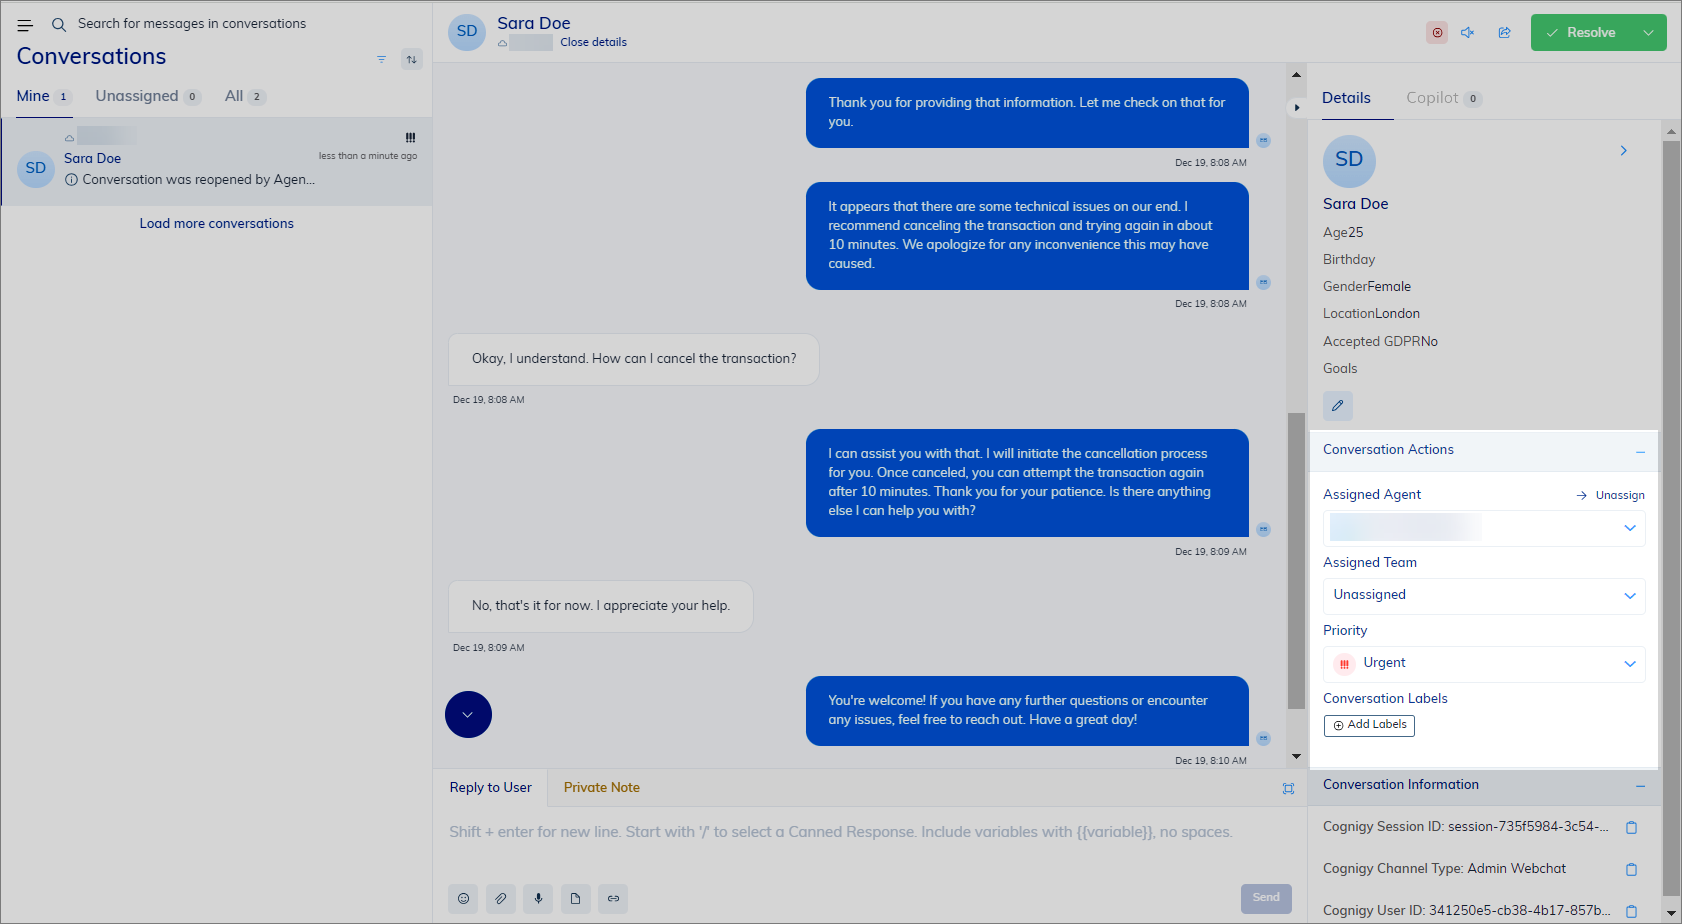
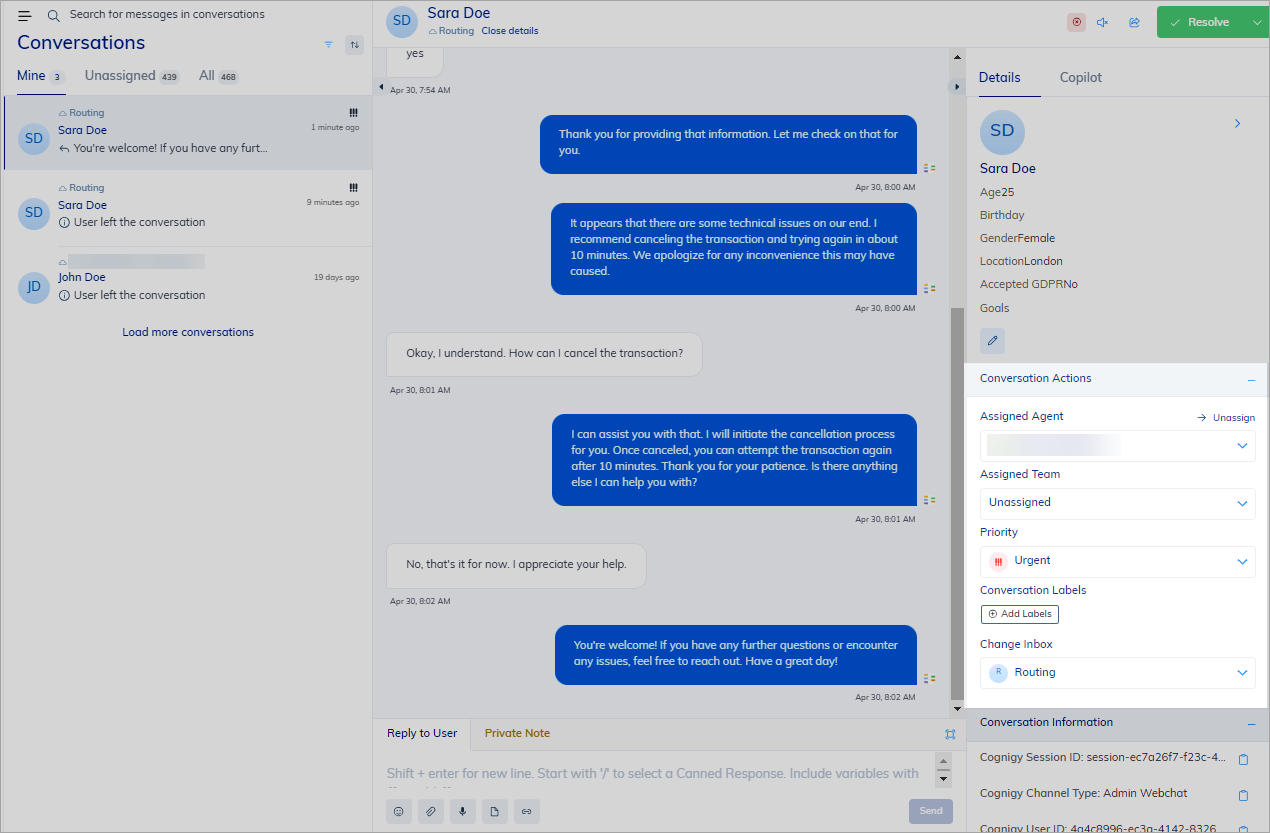
Change Inboxes

diff --git a/docs/en/docs/live-agent/conversation/assign-conversations.md b/docs/en/docs/live-agent/conversation/assign-conversations.md
@@ -5,13 +5,13 @@ description: "Within a Live Agent conversation, you can assign agents, teams, pr
 hidden: false
 ---
 
-# Assign Conversations
+# Conversation Assignment
 
-Within a conversation, you can assign agents, teams, priority, and labels.  
+Within Live Agent, you can assign agents, teams, priority, labels, and change inboxes.  
 
 <figure>
 <img class="image-center" src="{{config.site_url}}live-agent/conversation/images/conversation-actions.png" width="80%" alt="Live Agent Conversation Actions" />
-  <figcaption>Conversation Details</figcaption>
+  <figcaption>Conversation Actions</figcaption>
 </figure>
 
 ## Assign Agents
@@ -66,6 +66,31 @@ To assign a label to a conversation within Live Agent, do the following:
 6. Scroll or type to search for a label, then click a label. You can add multiple labels at once. 
 
 The label will be added to the conversation.
+
+## Change Inboxes
+
+When a conversation is initiated, it is automatically assigned to the inbox defined in the Cognigy.AI Flow. However, you can change the inbox for an existing conversation if needed.
+
+Agents can only assign conversations to the inboxes they have access to. Supervisors and Administrators, who have access to all inboxes, can assign conversations to any inbox.
+
+To change an inbox for a specific conversation within Live Agent, follow these steps:
+
+1. In the left-side menu of Live Agent, click **Conversations**.
+2. From the **Inboxes** list, select an Inbox. All available inboxes are visible depending on the user's role.
+3. From the **Conversations** list, select the conversation where you want to change the inbox.
+4. On the right side of the conversation chat, go to **Details > Conversation Actions**.
+5. From the **Change Inboxes** list, select the desired inbox.
+
+After selecting a new inbox, the page will refresh to ensure all agents can see the conversation in the newly assigned inbox.
+
+If you want to change inboxes for multiple conversations, follow these steps:
+
+1. In the left-side menu of Live Agent, click **Conversations**.
+2. From the **Conversations** list, select the conversations where you want to change the inbox and click ![change-inbox](../images/icons/change-inbox.svg).
+3. From the **Inboxes** list, select an Inbox. All available inboxes are visible depending on the user's role.
+4. Confirm the action by clicking **Assign**.
+
+After selecting a new inbox, the page will refresh to ensure all agents can see the conversations in the newly assigned inbox.
 
 ## More Information
 
